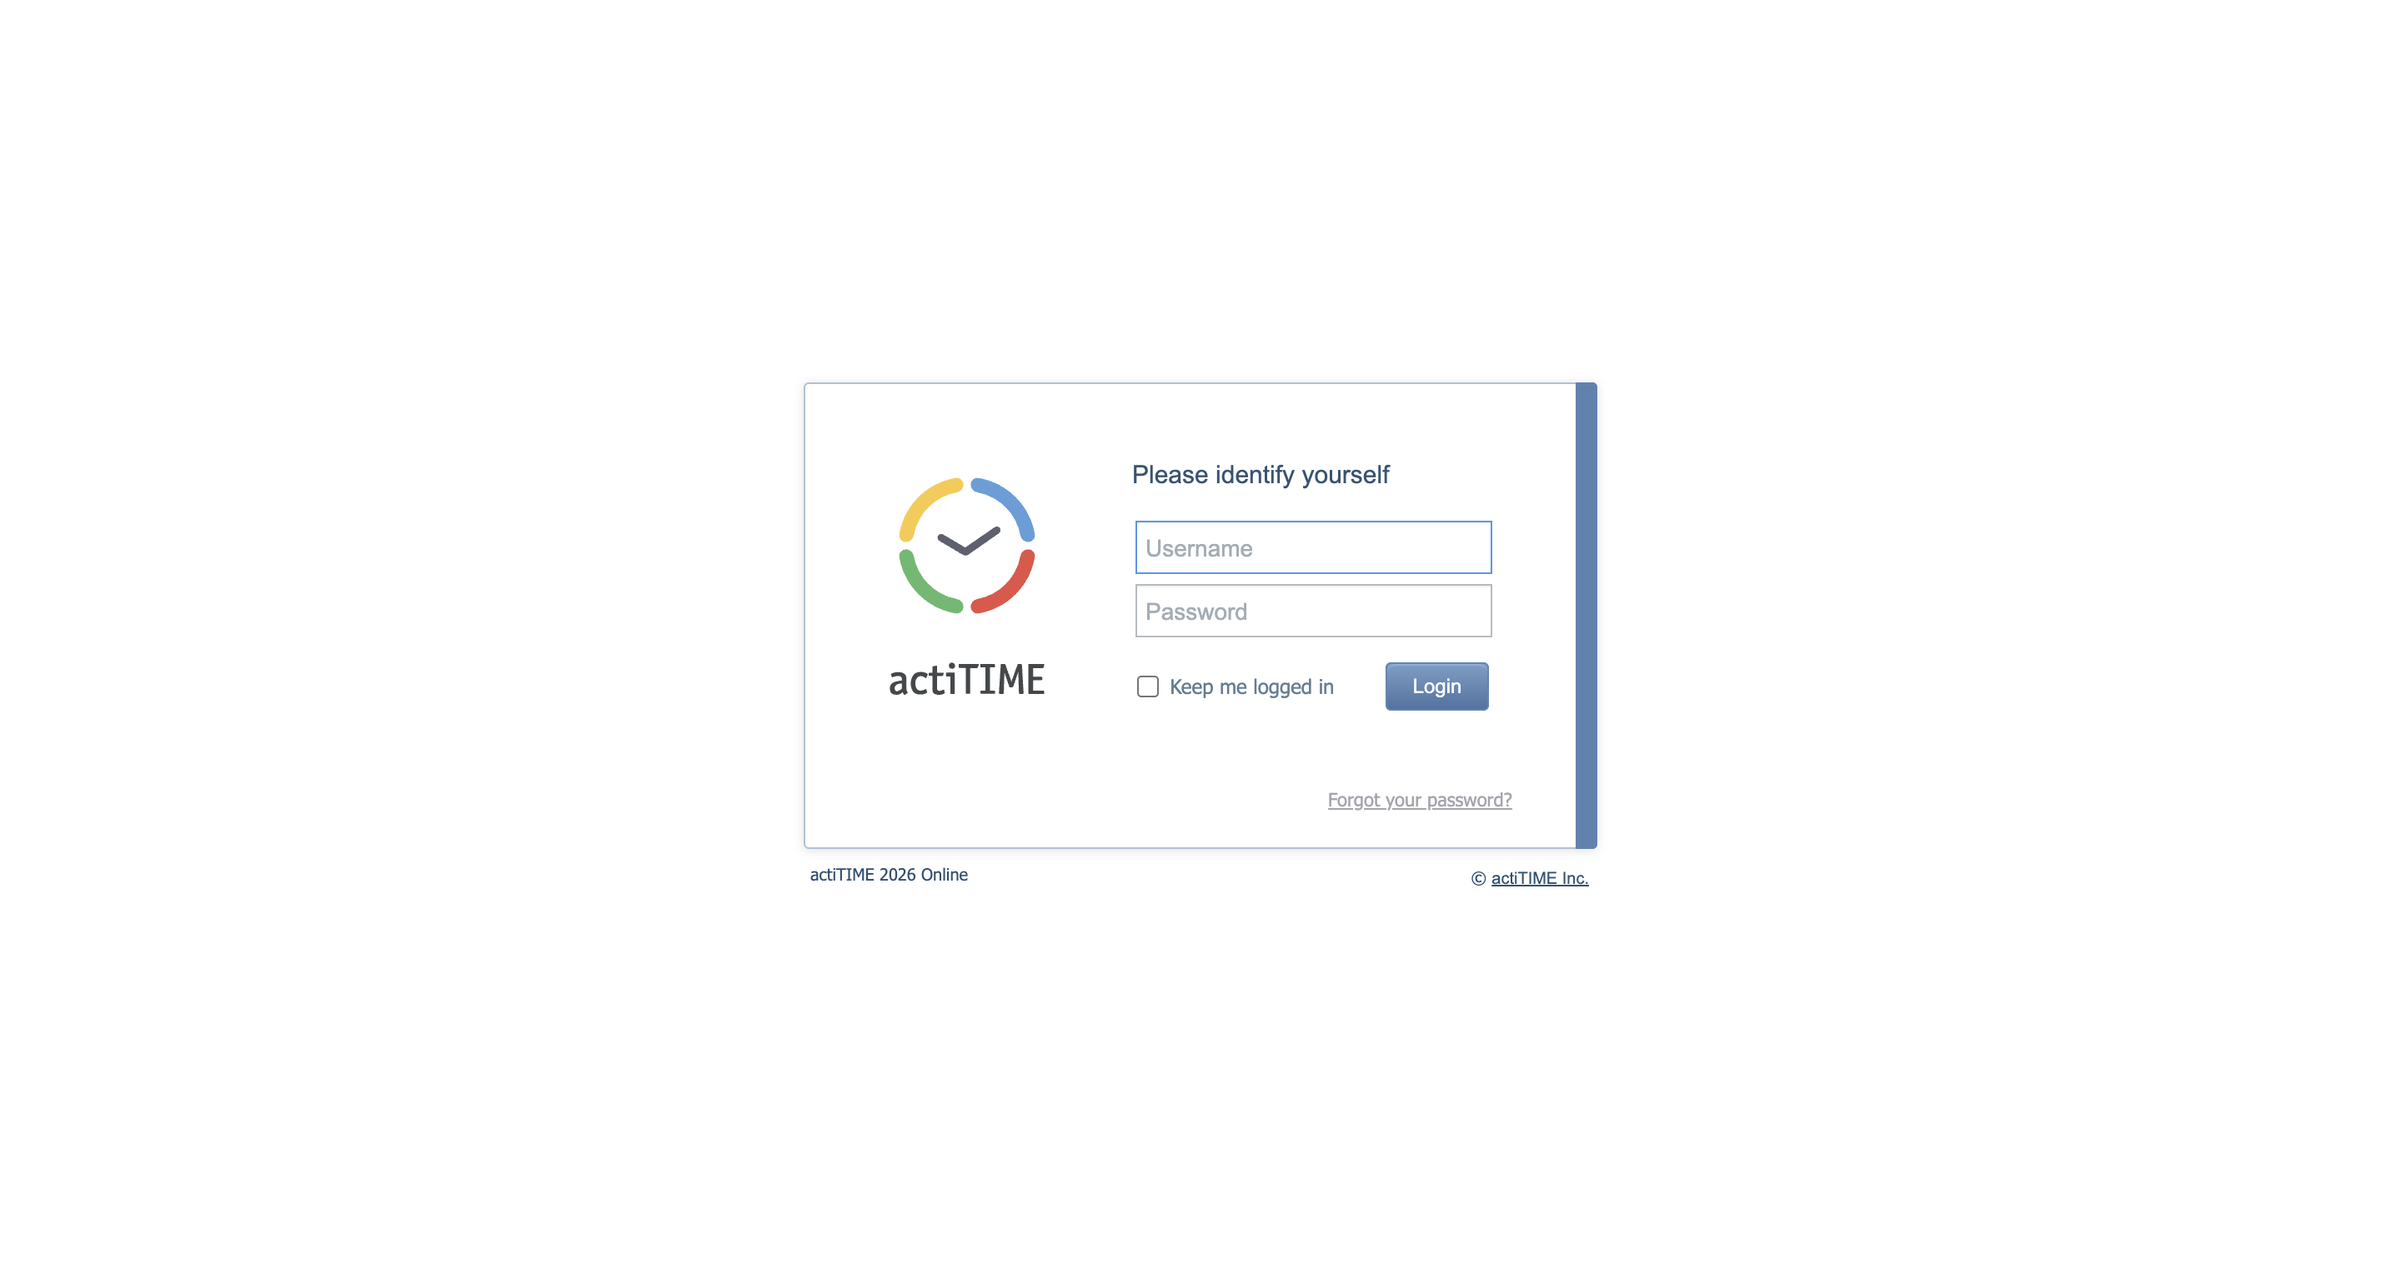
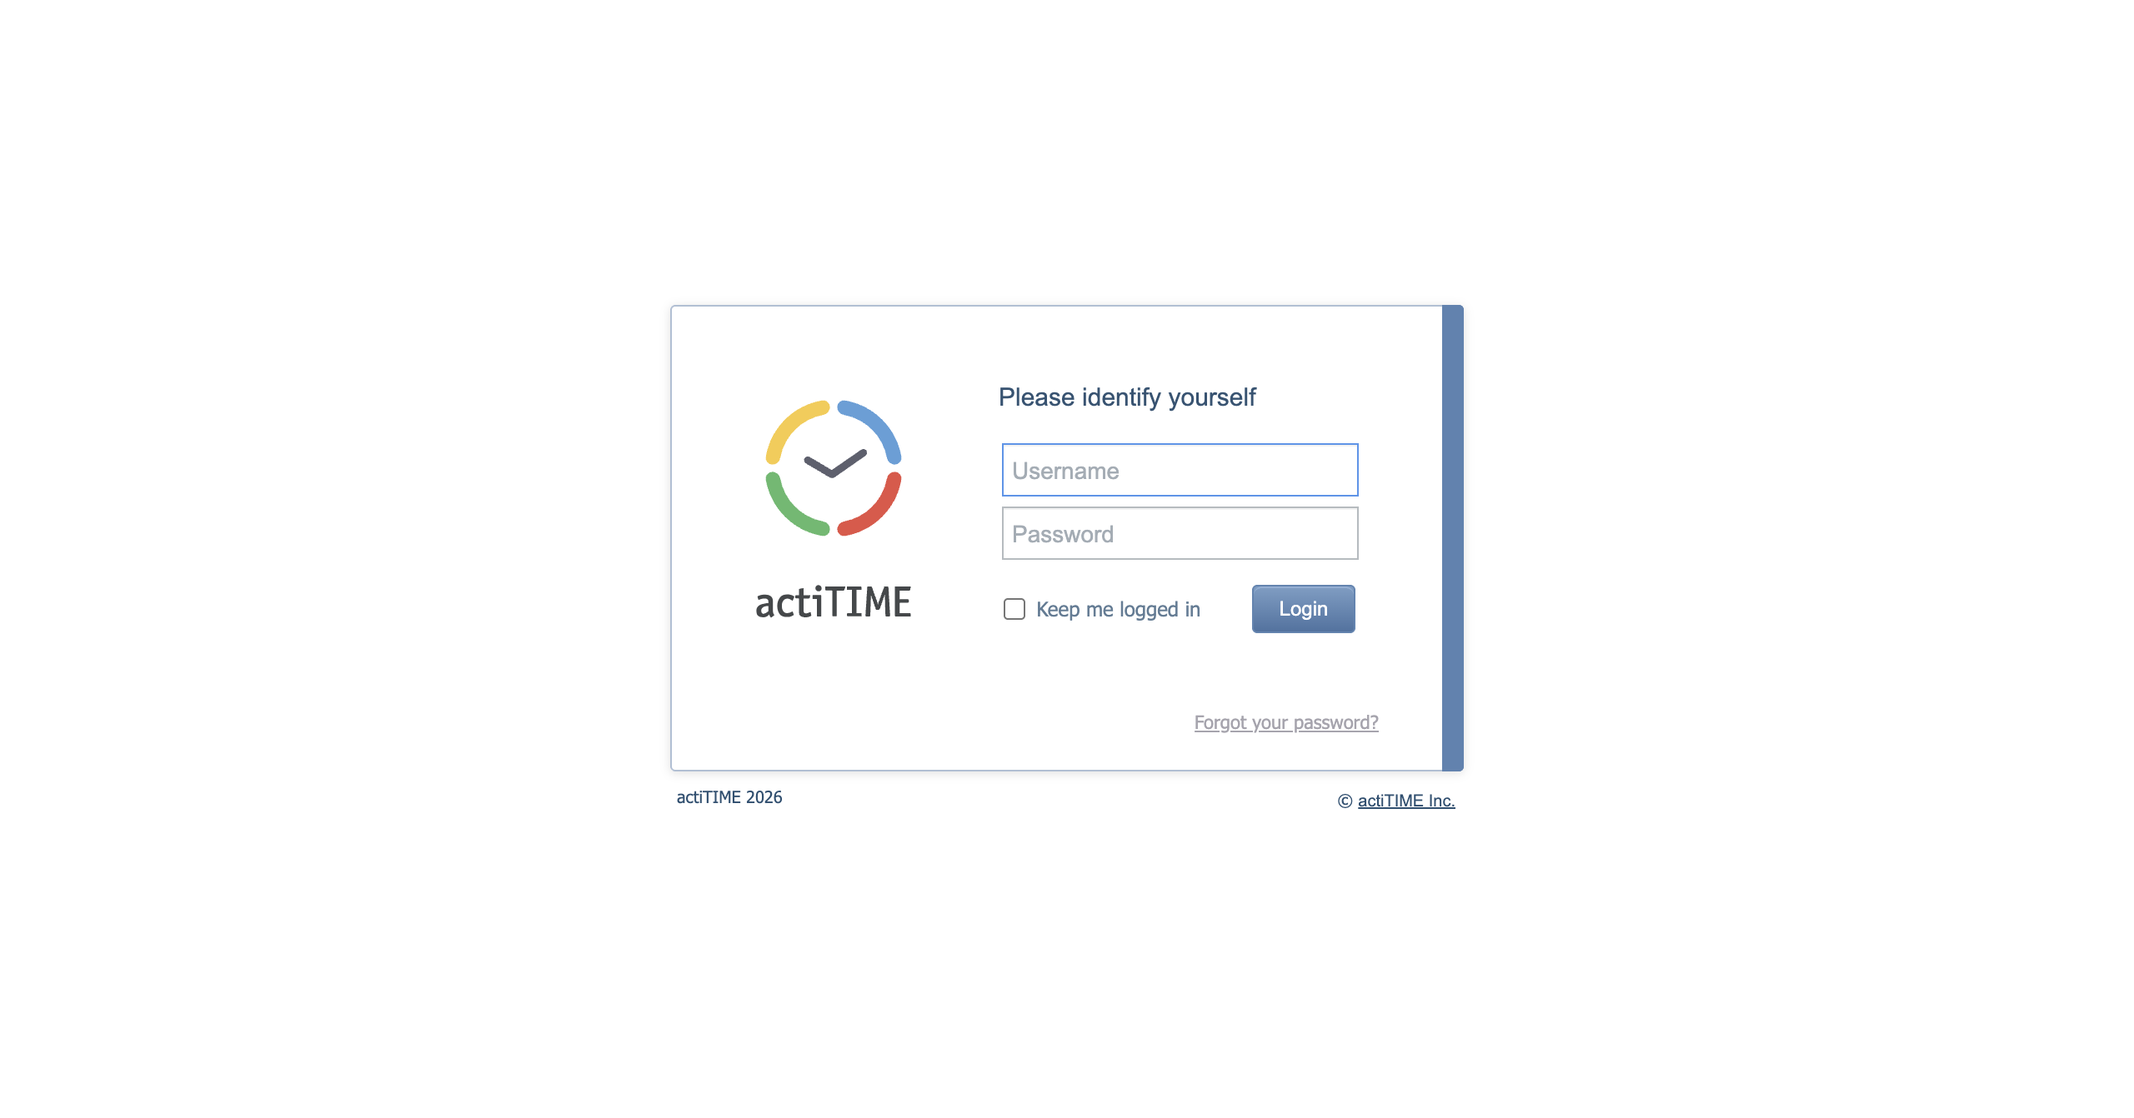
feb 1st

diff --git a/test-output/index.html b/test-output/index.html
@@ -234,20 +234,20 @@ data.addRows(3);
 data.setCell(0, 0, 0)
 data.setCell(0, 1, 'testinvalidlogin')
 data.setCell(0, 2, 'com.actiTime.tests.invalidloginTest')
-data.setCell(0, 3, 4463);
+data.setCell(0, 3, 3395);
 data.setCell(1, 0, 1)
 data.setCell(1, 1, 'testvalidloginlogout')
 data.setCell(1, 2, 'com.actiTime.tests.validLoginLogoutTest')
-data.setCell(1, 3, 2684);
+data.setCell(1, 3, 2806);
 data.setCell(2, 0, 2)
 data.setCell(2, 1, 'testverifyversion')
 data.setCell(2, 2, 'com.actiTime.tests.verifyversiontest')
-data.setCell(2, 3, 1484);
+data.setCell(2, 3, 1558);
 window.suiteTableData['Suite']= { tableData: data, tableDiv: 'times-div-Suite'}
 return data;
 }
               </script>
-              <span class="suite-total-time">Total running time: 8 seconds</span>
+              <span class="suite-total-time">Total running time: 7 seconds</span>
               <div id="times-div-Suite">
               </div> <!-- times-div-Suite -->
             </div> <!-- times-div -->
@@ -259,21 +259,10 @@ return data;
           </div> <!-- main-panel-header rounded-window-top -->
           <div class="main-panel-content rounded-window-bottom">
             <div class="reporter-method-div">
-              <span class="reporter-method-name">testvalidloginlogout</span>
-              <div class="reporter-method-output-div">
-                <span class="reporter-method-output">testing:actiTIME - Enter TT</span>
-                <span class="reporter-method-output">title is matching</span>
-                <span class="reporter-method-output">user name is:brahmendra.jayaraju67@gmail.com</span>
-                <span class="reporter-method-output">user pass is:9886603727</span>
-                <span class="reporter-method-output">title is matching</span>
-                <span class="reporter-method-output">title is matching</span>
-              </div> <!-- reporter-method-output-div -->
-            </div> <!-- reporter-method-div -->
-            <div class="reporter-method-div">
               <span class="reporter-method-name">testverifyversion</span>
               <div class="reporter-method-output-div">
                 <span class="reporter-method-output">title is matching</span>
-                <span class="reporter-method-output">version matching:actiTIME 2026 Online</span>
+                <span class="reporter-method-output">version matching:actiTIME 2026</span>
               </div> <!-- reporter-method-output-div -->
             </div> <!-- reporter-method-div -->
             <div class="reporter-method-div">
@@ -282,6 +271,17 @@ return data;
                 <span class="reporter-method-output">title is matching</span>
                 <span class="reporter-method-output">element is present</span>
                 <span class="reporter-method-output">err message is matching Username or Password is invalid. Please try again.</span>
+              </div> <!-- reporter-method-output-div -->
+            </div> <!-- reporter-method-div -->
+            <div class="reporter-method-div">
+              <span class="reporter-method-name">testvalidloginlogout</span>
+              <div class="reporter-method-output-div">
+                <span class="reporter-method-output">testing:actiTIME - Licenses</span>
+                <span class="reporter-method-output">title is matching</span>
+                <span class="reporter-method-output">user name is:brahmendra.jayaraju67@gmail.com</span>
+                <span class="reporter-method-output">user pass is:9886603727</span>
+                <span class="reporter-method-output">title is matching</span>
+                <span class="reporter-method-output">title is matching</span>
               </div> <!-- reporter-method-output-div -->
             </div> <!-- reporter-method-div -->
           </div> <!-- main-panel-content rounded-window-bottom -->
@@ -306,41 +306,41 @@ return data;
               </div> <!-- configuration-method before -->
               <div class="test-method">
                 <span class="method-name">testverifyversion</span>
-                <span class="method-start">5071 ms</span>
+                <span class="method-start">5974 ms</span>
               </div> <!-- test-method -->
               <div class="configuration-method after">
                 <span class="method-name">postcondition([TestResult name=testverifyversion status=SUCCESS method=verifyversiontest.testverifyversion()[pri:0...)</span>
-                <span class="method-start">6570 ms</span>
+                <span class="method-start">7553 ms</span>
               </div> <!-- configuration-method after -->
             </div> <!-- chronological-class -->
             <div class="chronological-class">
               <div class="chronological-class-name">com.actiTime.tests.invalidloginTest</div> <!-- chronological-class-name -->
               <div class="configuration-method before">
                 <span class="method-name">precondition</span>
-                <span class="method-start">6735 ms</span>
+                <span class="method-start">7730 ms</span>
               </div> <!-- configuration-method before -->
               <div class="test-method">
                 <span class="method-name">testinvalidlogin</span>
-                <span class="method-start">8681 ms</span>
+                <span class="method-start">10934 ms</span>
               </div> <!-- test-method -->
               <div class="configuration-method after">
                 <span class="method-name">postcondition([TestResult name=testinvalidlogin status=SUCCESS method=invalidloginTest.testinvalidlogin()[pri:0, i...)</span>
-                <span class="method-start">13157 ms</span>
+                <span class="method-start">14347 ms</span>
               </div> <!-- configuration-method after -->
             </div> <!-- chronological-class -->
             <div class="chronological-class">
               <div class="chronological-class-name">com.actiTime.tests.validLoginLogoutTest</div> <!-- chronological-class-name -->
               <div class="configuration-method before">
                 <span class="method-name">precondition</span>
-                <span class="method-start">13276 ms</span>
+                <span class="method-start">14475 ms</span>
               </div> <!-- configuration-method before -->
               <div class="test-method">
                 <span class="method-name">testvalidloginlogout</span>
-                <span class="method-start">16113 ms</span>
+                <span class="method-start">17209 ms</span>
               </div> <!-- test-method -->
               <div class="configuration-method after">
                 <span class="method-name">postcondition([TestResult name=testvalidloginlogout status=SUCCESS method=validLoginLogoutTest.testvalidloginlogou...)</span>
-                <span class="method-start">18802 ms</span>
+                <span class="method-start">20023 ms</span>
               </div> <!-- configuration-method after -->
           </div> <!-- main-panel-content rounded-window-bottom -->
         </div> <!-- panel -->

diff --git a/test-output/emailable-report.html b/test-output/emailable-report.html
@@ -9,12 +9,12 @@
 <table>
 <tr><th>Test</th><th># Passed</th><th># Skipped</th><th># Retried</th><th># Failed</th><th>Time (ms)</th><th>Included Groups</th><th>Excluded Groups</th></tr>
 <tr><th colspan="8">Suite</th></tr>
-<tr><td><a href="#t0">Test</a></td><td class="num">3</td><td class="num">0</td><td class="num">0</td><td class="num">0</td><td class="num">18,969</td><td></td><td></td></tr>
+<tr><td><a href="#t0">Test</a></td><td class="num">3</td><td class="num">0</td><td class="num">0</td><td class="num">0</td><td class="num">20,194</td><td></td><td></td></tr>
 </table>
-<table id='summary'><thead><tr><th>Class</th><th>Method</th><th>Start</th><th>Time (ms)</th></tr></thead><tbody><tr><th colspan="4">Suite</th></tr></tbody><tbody id="t0"><tr><th colspan="4">Test &#8212; passed</th></tr><tr class="passedeven"><td rowspan="1">com.actiTime.tests.invalidloginTest</td><td><a href="#m0">testinvalidlogin</a></td><td rowspan="1">1767228016302</td><td rowspan="1">4463</td></tr><tr class="passedodd"><td rowspan="1">com.actiTime.tests.validLoginLogoutTest</td><td><a href="#m1">testvalidloginlogout</a></td><td rowspan="1">1767228023734</td><td rowspan="1">2684</td></tr><tr class="passedeven"><td rowspan="1">com.actiTime.tests.verifyversiontest</td><td><a href="#m2">testverifyversion</a></td><td rowspan="1">1767228012692</td><td rowspan="1">1484</td></tr></tbody>
+<table id='summary'><thead><tr><th>Class</th><th>Method</th><th>Start</th><th>Time (ms)</th></tr></thead><tbody><tr><th colspan="4">Suite</th></tr></tbody><tbody id="t0"><tr><th colspan="4">Test &#8212; passed</th></tr><tr class="passedeven"><td rowspan="1">com.actiTime.tests.invalidloginTest</td><td><a href="#m0">testinvalidlogin</a></td><td rowspan="1">1770000599008</td><td rowspan="1">3395</td></tr><tr class="passedodd"><td rowspan="1">com.actiTime.tests.validLoginLogoutTest</td><td><a href="#m1">testvalidloginlogout</a></td><td rowspan="1">1770000605283</td><td rowspan="1">2806</td></tr><tr class="passedeven"><td rowspan="1">com.actiTime.tests.verifyversiontest</td><td><a href="#m2">testverifyversion</a></td><td rowspan="1">1770000594048</td><td rowspan="1">1558</td></tr></tbody>
 </table>
 <h2>Test</h2><h3 id="m0">com.actiTime.tests.invalidloginTest#testinvalidlogin</h3><table class="result"><tr><th>Messages</th></tr><tr><td><div class="messages">title is matching<br/>element is present<br/>err message is matching Username or Password is invalid. Please try again.</div></td></tr></table><p class="totop"><a href="#summary">back to summary</a></p>
-<h3 id="m1">com.actiTime.tests.validLoginLogoutTest#testvalidloginlogout</h3><table class="result"><tr><th>Messages</th></tr><tr><td><div class="messages">testing:actiTIME - Enter TT<br/>title is matching<br/>user name is:brahmendra.jayaraju67@gmail.com<br/>user pass is:9886603727<br/>title is matching<br/>title is matching</div></td></tr></table><p class="totop"><a href="#summary">back to summary</a></p>
-<h3 id="m2">com.actiTime.tests.verifyversiontest#testverifyversion</h3><table class="result"><tr><th>Messages</th></tr><tr><td><div class="messages">title is matching<br/>version matching:actiTIME 2026 Online</div></td></tr></table><p class="totop"><a href="#summary">back to summary</a></p>
+<h3 id="m1">com.actiTime.tests.validLoginLogoutTest#testvalidloginlogout</h3><table class="result"><tr><th>Messages</th></tr><tr><td><div class="messages">testing:actiTIME - Licenses<br/>title is matching<br/>user name is:brahmendra.jayaraju67@gmail.com<br/>user pass is:9886603727<br/>title is matching<br/>title is matching</div></td></tr></table><p class="totop"><a href="#summary">back to summary</a></p>
+<h3 id="m2">com.actiTime.tests.verifyversiontest#testverifyversion</h3><table class="result"><tr><th>Messages</th></tr><tr><td><div class="messages">title is matching<br/>version matching:actiTIME 2026</div></td></tr></table><p class="totop"><a href="#summary">back to summary</a></p>
 </body>
 </html>

diff --git a/test-output/Suite/Test.html b/test-output/Suite/Test.html
@@ -57,9 +57,9 @@ function toggleAllBoxes() {
 <tr>
 <td>Tests passed/Failed/Skipped:</td><td>3/0/0</td>
 </tr><tr>
-<td>Started on:</td><td>Wed Dec 31 19:40:07 EST 2025</td>
+<td>Started on:</td><td>Sun Feb 01 21:49:48 EST 2026</td>
 </tr>
-<tr><td>Total time:</td><td>18 seconds (18969 ms)</td>
+<tr><td>Total time:</td><td>20 seconds (20194 ms)</td>
 </tr><tr>
 <td>Included groups:</td><td></td>
 </tr><tr>
@@ -76,30 +76,13 @@ function toggleAllBoxes() {
 <td><b>Instance</b></td>
 </tr>
 <tr>
-<td title='com.actiTime.tests.validLoginLogoutTest.testvalidloginlogout()'><b>testvalidloginlogout</b><br>Test class: com.actiTime.tests.validLoginLogoutTest<br/>
-<a href="#Output-2027837674" onClick='toggleBox("Output-2027837674", this, "Show output", "Hide output");'>Show output</a>
-
-<a href="#Output-2027837674" onClick="toggleAllBoxes();">Show all outputs</a>
-<div class='log' id="Output-2027837674">
-testing:actiTIME - Enter TT<br/>
-title is matching<br/>
-user name is:brahmendra.jayaraju67@gmail.com<br/>
-user pass is:9886603727<br/>
-title is matching<br/>
-title is matching<br/>
-</div>
-</td>
-<td></td>
-<td>2</td>
-<td>com.actiTime.tests.validLoginLogoutTest@58a9760d</td></tr>
-<tr>
 <td title='com.actiTime.tests.verifyversiontest.testverifyversion()'><b>testverifyversion</b><br>Test class: com.actiTime.tests.verifyversiontest<br/>
 <a href="#Output-244577237" onClick='toggleBox("Output-244577237", this, "Show output", "Hide output");'>Show output</a>
 
 <a href="#Output-244577237" onClick="toggleAllBoxes();">Show all outputs</a>
 <div class='log' id="Output-244577237">
 title is matching<br/>
-version matching:actiTIME 2026 Online<br/>
+version matching:actiTIME 2026<br/>
 </div>
 </td>
 <td></td>
@@ -117,8 +100,25 @@ err message is matching Username or Password is invalid. Please try again.<br/>
 </div>
 </td>
 <td></td>
-<td>4</td>
+<td>3</td>
 <td>com.actiTime.tests.invalidloginTest@7530ad9c</td></tr>
+<tr>
+<td title='com.actiTime.tests.validLoginLogoutTest.testvalidloginlogout()'><b>testvalidloginlogout</b><br>Test class: com.actiTime.tests.validLoginLogoutTest<br/>
+<a href="#Output-1968298538" onClick='toggleBox("Output-1968298538", this, "Show output", "Hide output");'>Show output</a>
+
+<a href="#Output-1968298538" onClick="toggleAllBoxes();">Show all outputs</a>
+<div class='log' id="Output-1968298538">
+testing:actiTIME - Licenses<br/>
+title is matching<br/>
+user name is:brahmendra.jayaraju67@gmail.com<br/>
+user pass is:9886603727<br/>
+title is matching<br/>
+title is matching<br/>
+</div>
+</td>
+<td></td>
+<td>2</td>
+<td>com.actiTime.tests.validLoginLogoutTest@58a9760d</td></tr>
 </table><p>
 </body>
 </html>

diff --git a/src/test/java/com/actiTime/generic/BaseTest.java b/src/test/java/com/actiTime/generic/BaseTest.java
@@ -18,16 +18,16 @@ public abstract class BaseTest implements AutoConstant {
 	@BeforeMethod
 	public void precondition() {
 
-	    System.setProperty("webdriver.chrome.driver",
-	            "/Users/brahmendrajayaraju/Downloads/actitimeUI-main/Actitimec/driver/chromedriver");
+	    System.setProperty(
+	            "webdriver.chrome.driver",
+	            "/Users/brahmendrajayaraju/Downloads/actitimeUI-main/Actitimec/driver/chromedriver"
+	    );
 
 	    ChromeOptions options = new ChromeOptions();
 
-	    // HEADLESS so browser does not launch UI
-	    options.addArguments("--headless=new");   // 👈 add this line
-	    options.addArguments("--window-size=1920,1080");
+	 
 
-	    // Performance & stability options
+
 	    options.addArguments("--disable-background-networking");
 	    options.addArguments("--disable-background-timer-throttling");
 	    options.addArguments("--disable-renderer-backgrounding");
@@ -42,6 +42,8 @@ public abstract class BaseTest implements AutoConstant {
 	    options.addArguments("--disable-infobars");
 	    options.addArguments("--no-first-run");
 	    options.addArguments("--start-maximized");
+
+	    // macOS compatibility
 	    options.addArguments("--remote-allow-origins=*");
 
 	    driver = new ChromeDriver(options);

diff --git a/src/test/java/com/actiTime/tests/validLoginLogoutTest.java b/src/test/java/com/actiTime/tests/validLoginLogoutTest.java
@@ -5,7 +5,7 @@ import org.testng.annotations.Test;
 
 import com.actiTime.generic.BaseTest;
 import getdata.ExceldataFramework;
-import com.actiTime.pages.EnterTimetrackPage;
+import com.actiTime.pages.LicensesPage;
 import com.actiTime.pages.LoginPage;
 
 public class validLoginLogoutTest extends BaseTest {
@@ -19,13 +19,13 @@ public class validLoginLogoutTest extends BaseTest {
 
 		String pass = ExceldataFramework.getdata(filepath, "Login", 1, 1);
 
-		String timetracktitle = ExceldataFramework.getdata(filepath, "entertimetrack", 1, 0);
+		String licensetitle = ExceldataFramework.getdata(filepath, "Licenses", 1, 0);
 
-		Reporter.log("testing:" + timetracktitle, true);
+		Reporter.log("testing:" + licensetitle, true);
 
 		LoginPage lp = new LoginPage(driver);
 
-		EnterTimetrackPage ep = new EnterTimetrackPage(driver);
+		LicensesPage ep = new LicensesPage(driver);
 
 		lp.verifytitle(logintitle);
 
@@ -38,7 +38,7 @@ public class validLoginLogoutTest extends BaseTest {
 
 		lp.clickonlogin();
 
-		lp.verifytitle(timetracktitle);
+		lp.verifytitle(licensetitle);
 
 		ep.clickavatar();
 		ep.clicklogout();

diff --git a/src/test/java/com/actiTime/pages/LicensesPage.java b/src/test/java/com/actiTime/pages/LicensesPage.java
@@ -7,15 +7,15 @@ import org.openqa.selenium.support.PageFactory;
 
 import com.actiTime.generic.BasePage;
 
-public class EnterTimetrackPage extends BasePage {
+public class LicensesPage extends BasePage {
 
-	@FindBy(className = "pages-navigation-Popups-ProfilePopup-buttonsGroup--dKHJND4D")
+	@FindBy(xpath= "(//div[@class='pages-navigation-Popups-ProfilePopup-buttonsGroup--dKHJND4D'])[1]")
 	private WebElement avatar;
 
 	@FindBy(xpath = "//div[.='Logout']")
 	private WebElement logoutbtn;
 
-	public EnterTimetrackPage(WebDriver driver) {
+	public LicensesPage(WebDriver driver) {
 		super(driver);
 
 		PageFactory.initElements(driver, this);

diff --git a/src/test/java/com/actiTime/pages/LoginPage.java b/src/test/java/com/actiTime/pages/LoginPage.java
@@ -18,7 +18,7 @@ public class LoginPage extends BasePage {
 	@FindBy(xpath = "//div[.='Login ']")
 	private WebElement loginbtn;
 
-	@FindBy(xpath = "//nobr[.='actiTIME 2026 Online']")
+	@FindBy(xpath = "//nobr[.='actiTIME 2026']")
 	private WebElement version;
 
 	@FindBy(xpath = "//span[.='Username or Password is invalid. Please try again.']")

diff --git a/src/test/java/com/actiTime/generic/BasePage.java b/src/test/java/com/actiTime/generic/BasePage.java
@@ -28,7 +28,7 @@ public class BasePage {
 
 		} catch (Exception e) {
 			Reporter.log("title is not matching", true);
-			Reporter.log("actual title is " + driver.getTitle() + "expected titlr is " + etitle);
+			Reporter.log("actual title is : " + driver.getTitle() + " expected titlr is : " + etitle);
 
 			Assert.fail();
 		}
